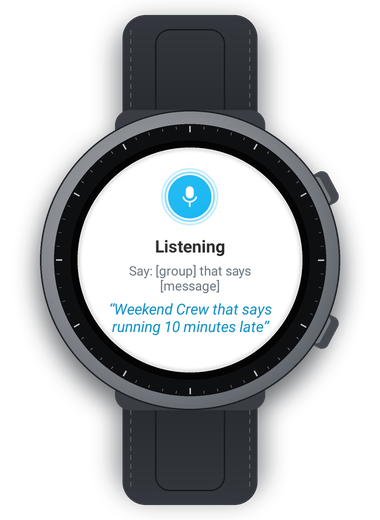
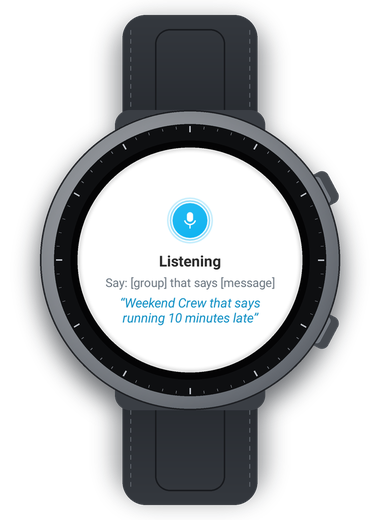
Fit everything on the round screen, share image

Changed region(s): [[0.2605, 0.3077, 0.7237, 0.6462]]

diff --git a/docs/index.html b/docs/index.html
@@ -6,6 +6,16 @@
 <title>Connect your watch</title>
 <meta name="description" content="Sign your GroupMe Voice watch app in to your GroupMe account.">
 <meta name="referrer" content="no-referrer">
+<meta property="og:type" content="website">
+<meta property="og:title" content="GroupMe Voice">
+<meta property="og:description" content="Send GroupMe messages from your Galaxy Watch, just by talking.">
+<meta property="og:url" content="https://peterchabs.github.io/groupme-voice-android/">
+<meta property="og:image" content="https://peterchabs.github.io/groupme-voice-android/images/social-preview.png">
+<meta property="og:image:width" content="1280">
+<meta property="og:image:height" content="640">
+<meta property="og:image:alt" content="Three Galaxy Watches showing GroupMe Voice listening, counting down, and sent">
+<meta name="twitter:card" content="summary_large_image">
+<meta name="twitter:image" content="https://peterchabs.github.io/groupme-voice-android/images/social-preview.png">
 <style>
   :root {
     --bg: #f4f6f8; --card: #ffffff; --text: #14202b; --muted: #5b6b78; --line: #dde3e8;

diff --git a/watch-app/app/src/main/java/io/github/peterchabs/groupmevoice/Stage.java b/watch-app/app/src/main/java/io/github/peterchabs/groupmevoice/Stage.java
@@ -32,12 +32,12 @@ final class Stage {
     Stage(Activity a) {
         this.a = a;
         int w = a.getResources().getDisplayMetrics().widthPixels;
-        int pad = (int) (w * 0.12f);
+        int pad = (int) (w * 0.11f);
 
         LinearLayout col = new LinearLayout(a);
         col.setOrientation(LinearLayout.VERTICAL);
-        col.setGravity(Gravity.CENTER_HORIZONTAL);
-        col.setPadding(pad, (int) (w * 0.07f), pad, (int) (w * 0.2f));
+        col.setGravity(Gravity.CENTER); // middle of the circle is where a round screen is widest
+        col.setPadding(pad, (int) (w * 0.1f), pad, (int) (w * 0.1f));
 
         FrameLayout hero = new FrameLayout(a);
         orb = new OrbView(a);
@@ -45,15 +45,15 @@ final class Stage {
         qr = new ImageView(a);
         qr.setVisibility(View.GONE);
         qr.setAlpha(0f);
-        int orbSize = (int) (w * 0.3f), qrSize = (int) (w * 0.42f);
+        int orbSize = (int) (w * 0.24f), qrSize = (int) (w * 0.29f);
         hero.addView(orb, new FrameLayout.LayoutParams(orbSize, orbSize, Gravity.CENTER));
         hero.addView(qr, new FrameLayout.LayoutParams(qrSize, qrSize, Gravity.CENTER));
         col.addView(hero, new LinearLayout.LayoutParams(LinearLayout.LayoutParams.WRAP_CONTENT,
                 LinearLayout.LayoutParams.WRAP_CONTENT));
 
-        title = text(col, 17, 0xFF262626, true);
-        sub = text(col, 13, 0xFF6B7680, false);
-        live = text(col, 15, 0xFF0A8FC4, false);
+        title = text(col, 15, 0xFF262626, true);
+        sub = text(col, 12, 0xFF6B7680, false);
+        live = text(col, 13, 0xFF0A8FC4, false);
         live.setTypeface(Typeface.create(Typeface.DEFAULT, Typeface.ITALIC));
         live.setVisibility(View.GONE);
 
@@ -62,13 +62,15 @@ final class Stage {
         col.addView(extra, full());
         actions = new LinearLayout(a);
         actions.setOrientation(LinearLayout.VERTICAL);
+        actions.setGravity(Gravity.CENTER_HORIZONTAL);
         col.addView(actions, full());
 
         scroll = new ScrollView(a);
         scroll.setFillViewport(true);
         scroll.setVerticalScrollBarEnabled(false);
         scroll.setBackgroundColor(0xFFFFFFFF);
-        scroll.addView(col);
+        scroll.addView(col, new ScrollView.LayoutParams(ScrollView.LayoutParams.MATCH_PARENT,
+                ScrollView.LayoutParams.MATCH_PARENT));
         a.setContentView(scroll);
     }
 
@@ -76,14 +78,17 @@ final class Stage {
     Stage show(OrbView.Mode mode, String t, String s, Object... buttons) {
         gen++;
         if (orb.mode() != mode) orb.setMode(mode);
-        title.setTextSize(t != null && t.length() > 34 ? 14 : 17); // long titles shrink to fit the round screen
+        title.setTextSize(t != null && t.length() > 34 ? 13 : 15); // long titles shrink to fit the round screen
         swap(title, t);
         swap(sub, s);
         hide(live);
         extra.removeAllViews();
         actions.removeAllViews();
+        int count = buttons.length / 2;
+        // two buttons sit side by side (saves a row on the round screen); otherwise stacked
+        actions.setOrientation(count == 2 ? LinearLayout.HORIZONTAL : LinearLayout.VERTICAL);
         for (int i = 0; i + 1 < buttons.length; i += 2) {
-            addButton((String) buttons[i], (Runnable) buttons[i + 1], i == 0, i / 2);
+            addButton((String) buttons[i], (Runnable) buttons[i + 1], i == 0, i / 2, count == 2);
         }
         scroll.smoothScrollTo(0, 0);
         return this;
@@ -168,21 +173,33 @@ final class Stage {
                 .setInterpolator(EASE).start();
     }
 
-    private void addButton(String label, Runnable onTap, boolean primary, int index) {
+    private void addButton(String label, Runnable onTap, boolean primary, int index, boolean pair) {
         Button b = new Button(a);
         b.setText(label);
         b.setAllCaps(false);
-        b.setTextSize(14);
+        b.setTextSize(13);
+        b.setMinHeight(0);
+        b.setMinimumHeight(0);
         b.setTextColor(primary ? 0xFFFFFFFF : 0xFF00AFF0);
         b.setTypeface(Typeface.DEFAULT_BOLD);
         b.setBackground(Press.button(a, primary));
         b.setStateListAnimator(null);
-        int padV = (int) (a.getResources().getDisplayMetrics().density * 10);
-        b.setPadding(b.getPaddingLeft(), padV, b.getPaddingRight(), padV + (int) (a.getResources().getDisplayMetrics().density * 4));
+        int padV = (int) (a.getResources().getDisplayMetrics().density * 7);
+        int padH = (int) (a.getResources().getDisplayMetrics().density * 6);
+        b.setPadding(padH, padV, padH, padV + (int) (a.getResources().getDisplayMetrics().density * 4));
+        b.setSingleLine(true); // labels never wrap or break mid-word
         Press.attach(b);
         b.setOnClickListener(v -> onTap.run());
-        LinearLayout.LayoutParams lp = full();
-        lp.topMargin = (int) (a.getResources().getDisplayMetrics().density * 6);
+        // narrower than the screen so the pill's ends never meet the round edge
+        int sw = a.getResources().getDisplayMetrics().widthPixels;
+        float dp = a.getResources().getDisplayMetrics().density;
+        LinearLayout.LayoutParams lp = new LinearLayout.LayoutParams(
+                (int) (sw * (pair ? 0.35f : 0.62f)), LinearLayout.LayoutParams.WRAP_CONTENT);
+        lp.topMargin = (int) (dp * 6);
+        if (pair) {
+            lp.leftMargin = (int) (dp * 2);
+            lp.rightMargin = (int) (dp * 2);
+        }
         actions.addView(b, lp);
         enter(b, index + 1);
     }
@@ -192,7 +209,7 @@ final class Stage {
         t.setTextSize(sp);
         t.setTextColor(color);
         t.setGravity(Gravity.CENTER);
-        t.setPadding(0, (int) (a.getResources().getDisplayMetrics().density * 4), 0, 0);
+        t.setPadding(0, (int) (a.getResources().getDisplayMetrics().density * 3), 0, 0);
         if (bold) t.setTypeface(Typeface.DEFAULT_BOLD);
         col.addView(t, full());
         return t;

diff --git a/watch-app/app/src/test/java/io/github/peterchabs/groupmevoice/ScreenshotTest.java b/watch-app/app/src/test/java/io/github/peterchabs/groupmevoice/ScreenshotTest.java
@@ -66,10 +66,63 @@ public class ScreenshotTest {
         root.measure(View.MeasureSpec.makeMeasureSpec(size, View.MeasureSpec.EXACTLY),
                 View.MeasureSpec.makeMeasureSpec(size, View.MeasureSpec.EXACTLY));
         root.layout(0, 0, size, size);
+        java.util.List<String> bad = new java.util.ArrayList<>();
+        outside(root, root, size / 2f, bad);
         Bitmap b = Bitmap.createBitmap(size, size, Bitmap.Config.ARGB_8888);
         root.draw(new Canvas(b));
         try (FileOutputStream os = new FileOutputStream(new File(out, name + ".png"))) {
             b.compress(Bitmap.CompressFormat.PNG, 100, os);
+        }
+        if (!bad.isEmpty()) throw new AssertionError(name + ": past the round edge: " + bad);
+    }
+
+
+    /** Collects anything drawn outside the round screen (a circle filling the square). */
+    private static void outside(View v, View root, float r, java.util.List<String> bad) {
+        if (v.getVisibility() != View.VISIBLE || v.getAlpha() == 0f) return;
+        if (v instanceof android.view.ViewGroup && !(v instanceof OrbView)) {
+            android.view.ViewGroup g = (android.view.ViewGroup) v;
+            for (int i = 0; i < g.getChildCount(); i++) outside(g.getChildAt(i), root, r, bad);
+            return;
+        }
+        float x = 0, y = 0;
+        for (View p = v; p != root && p != null; p = (View) p.getParent()) {
+            x += p.getLeft() - (p == v ? 0 : p.getScrollX());
+            y += p.getTop() - (p == v ? 0 : p.getScrollY());
+            if (!(p.getParent() instanceof View)) break;
+        }
+        float w = v.getWidth(), h = v.getHeight();
+        String label = v.getClass().getSimpleName();
+        if (v instanceof android.widget.TextView) {
+            label += " \"" + ((android.widget.TextView) v).getText() + "\"";
+        }
+        if (v instanceof android.widget.Button) {
+            float k = h / 2f; // pill ends are round
+            check(bad, label, r, x + k, y, x + w - k, y, x + k, y + h, x + w - k, y + h, x, y + k, x + w, y + k);
+        } else if (v instanceof android.widget.TextView && !(v instanceof android.widget.EditText)) {
+            android.widget.TextView t = (android.widget.TextView) v;
+            android.text.Layout l = t.getLayout();
+            if (l == null) return;
+            for (int i = 0; i < l.getLineCount(); i++) {
+                float lx = x + t.getTotalPaddingLeft(), ly = y + t.getTotalPaddingTop();
+                float a = lx + l.getLineLeft(i), b = lx + l.getLineRight(i);
+                float top = ly + l.getLineTop(i) + 4, bot = ly + l.getLineBottom(i) - 4;
+                check(bad, label + " line " + (i + 1), r, a, top, b, top, a, bot, b, bot);
+            }
+        } else if (v instanceof OrbView) {
+            float cx = x + w / 2f - r, cy = y + h / 2f - r;
+            if (Math.hypot(cx, cy) + w / 2f > r) bad.add(label);
+        } else if (w > 0 && h > 0) {
+            check(bad, label, r, x, y, x + w, y, x, y + h, x + w, y + h);
+        }
+    }
+
+    private static void check(java.util.List<String> bad, String label, float r, float... pts) {
+        for (int i = 0; i < pts.length; i += 2) {
+            if (Math.hypot(pts[i] - r, pts[i + 1] - r) > r - 2) {
+                bad.add(label);
+                return;
+            }
         }
     }
 
@@ -142,8 +195,8 @@ public class ScreenshotTest {
     @Test public void notSure() throws Exception {
         Activity a = main();
         Stage s = stageOf(a);
-        s.show(OrbView.Mode.ERROR, "Which one? Book Club or Book Club Planning. Say more of the name.",
-                "Nothing was sent.", "Try again", (Runnable) () -> { }, "Settings", (Runnable) () -> { });
+        s.show(OrbView.Mode.ERROR, "Which one: Book Club or Book Club Planning?",
+                "Say more of the name. Nothing was sent.", "Try again", (Runnable) () -> { }, "Settings", (Runnable) () -> { });
         advance(700);
         save(a, "6-which-one");
     }

diff --git a/watch-app/app/src/main/java/io/github/peterchabs/groupmevoice/SetupActivity.java b/watch-app/app/src/main/java/io/github/peterchabs/groupmevoice/SetupActivity.java
@@ -74,8 +74,7 @@ public class SetupActivity extends Activity {
         Bitmap code = qr(link.pageUrl());
         if (code != null) stage.showQr(code);
         stage.show(OrbView.Mode.BUSY, "Code: " + link.pretty(),
-                "Scan with your phone's camera, or enter the code at\npeterchabs.github.io/\ngroupme-voice-android",
-                "New code", (Runnable) this::startLink,
+                "Scan, or enter it at\npeterchabs.github.io/groupme-voice-android",
                 "Type token instead", (Runnable) () -> showTyping(null));
         final long started = System.currentTimeMillis();
         polling = bg.submit(() -> poll(link, started));
@@ -177,7 +176,7 @@ public class SetupActivity extends Activity {
 
     private Bitmap qr(String text) {
         try {
-            int size = (int) (getResources().getDisplayMetrics().widthPixels * 0.42f);
+            int size = (int) (getResources().getDisplayMetrics().widthPixels * 0.29f);
             Map<EncodeHintType, Object> hints = new EnumMap<>(EncodeHintType.class);
             hints.put(EncodeHintType.MARGIN, 2); // white border so phone cameras lock on
             BitMatrix m = new QRCodeWriter().encode(text, BarcodeFormat.QR_CODE, size, size, hints);

diff --git a/watch-app/app/src/main/java/io/github/peterchabs/groupmevoice/Phrase.java b/watch-app/app/src/main/java/io/github/peterchabs/groupmevoice/Phrase.java
@@ -95,12 +95,12 @@ public final class Phrase {
                 return new Match(null, "I couldn't find a group called \"" + spoken + "\".");
             }
             if (cands.size() > 1) { // never guess between two groups
-                StringBuilder sb = new StringBuilder("Which one? ");
+                StringBuilder sb = new StringBuilder("Which one: ");
                 for (int i = 0; i < Math.min(3, cands.size()); i++) {
                     if (i > 0) sb.append(" or ");
                     sb.append(byName.get(cands.get(i)).get(0).name);
                 }
-                return new Match(null, sb.append(". Say more of the name.").toString());
+                return new Match(null, sb.append("?").toString());
             }
             hits = byName.get(cands.get(0));
         }

diff --git a/watch-app/app/src/main/java/io/github/peterchabs/groupmevoice/MainActivity.java b/watch-app/app/src/main/java/io/github/peterchabs/groupmevoice/MainActivity.java
@@ -243,7 +243,8 @@ public class MainActivity extends Activity {
     private void confirm(Phrase p, Phrase.Match m) {
         if (isFinishing()) return;
         if (m.group == null) {
-            showRetry(m.problem, "Nothing was sent.");
+            showRetry(m.problem, m.problem.startsWith("Which one")
+                    ? "Say more of the name. Nothing was sent." : "Nothing was sent.");
             return;
         }
         stage.show(OrbView.Mode.COUNTDOWN, "To " + m.group.name, "“" + p.text + "”",
